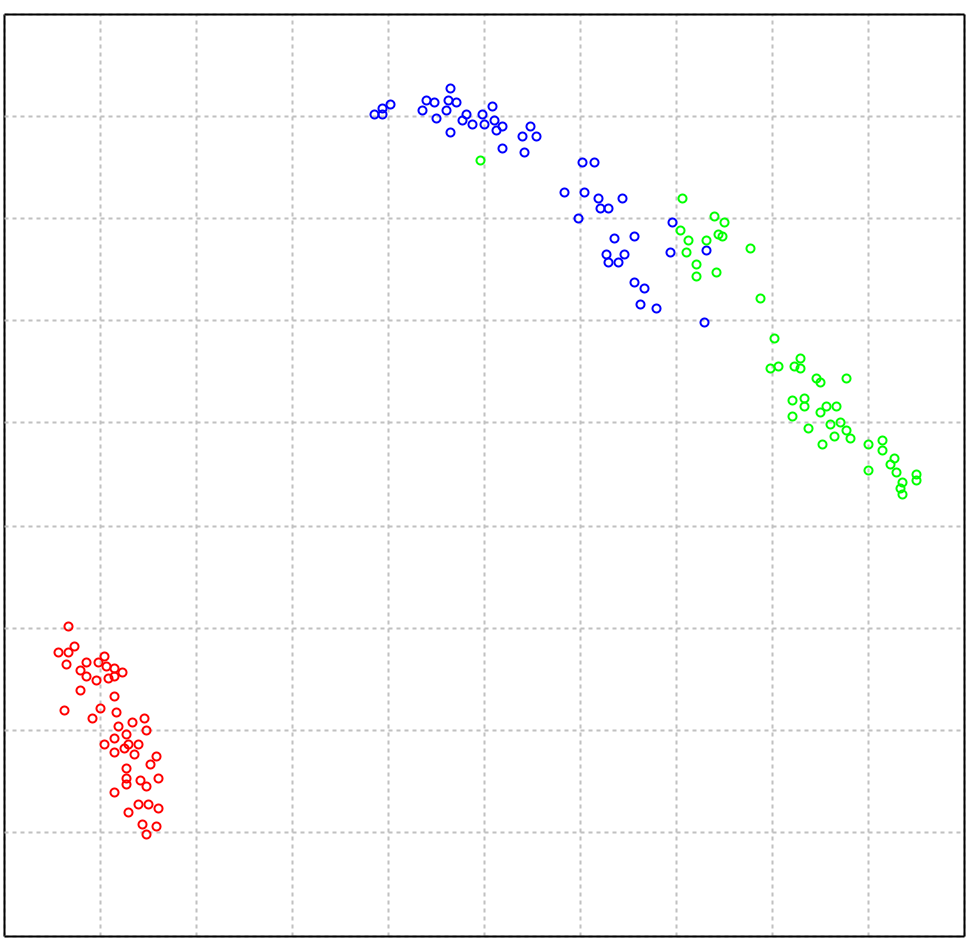
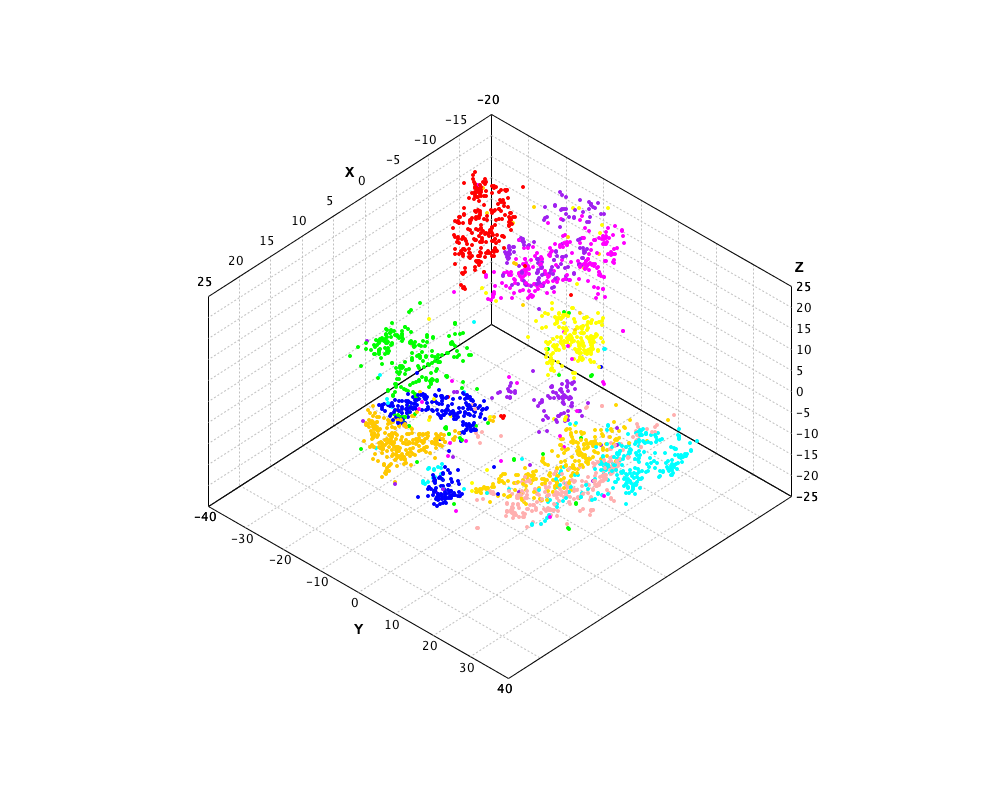
recover t-SNE on MNIST example

diff --git a/shell/src/universal/doc/manifold-content.html b/shell/src/universal/doc/manifold-content.html
@@ -208,7 +208,7 @@
         and dissimilar objects are modeled by distant points.</p>
 
     <pre class="prettyprint lang-scala"><code>
-    def tsne(X: Array[Array[Double]], d: Int = 2, perplexity: Double = 50.0, eta: Double = 200.0, iterations: Int = 1000): TSNE
+    def tsne(X: Array[Array[Double]], d: Int = 2, perplexity: Double = 20.0, eta: Double = 500.0, iterations: Int = 1000): TSNE
     </code></pre>
 
     <p>where <code>X</code> is input data, <code>perplexity</code> is the perplexity
@@ -216,9 +216,25 @@
         the number of iterations. If <code>X</code> is a square matrix, it is assumed
         to be the distance/dissimilarity matrix.</p>
 
+    <p>The t-SNE on the MNIST data is as follows. Note that the input data is preprocessed
+        using PCA to reduce the dimensionality to 50 before t-SNE is performed.</p>
+
+    <pre class="prettyprint lang-scala"><code>
+    val mnist = read.table("data/mnist/mnist2500_X.txt")
+    val label = read.table("data/mnist/mnist2500_labels.txt")
+    val x = mnist.unzip
+    val y = label.unzip.map(_(0).toInt)
+    val legend = label.unzip.map(_(0).toString)
+    val pc = pca(x)
+    pc.setProjection(50)
+    val x50 = pc.project(x)
+    val sne = tsne(x50, 3, 20, 200, 1000)
+    plot(sne.getCoordinates, y, 'o', Palette.COLORS)
+    </code></pre>
+
     <div style="width: 100%; display: inline-block; text-align: center;">
         <img src="images/tsne.png" class="enlarge" style="width: 480px;" />
-        <div class="caption" style="min-width: 480px;">t-SNE on Iris</div>
+        <div class="caption" style="min-width: 480px;">t-SNE</div>
     </div>
 
     <div id="btnv">
